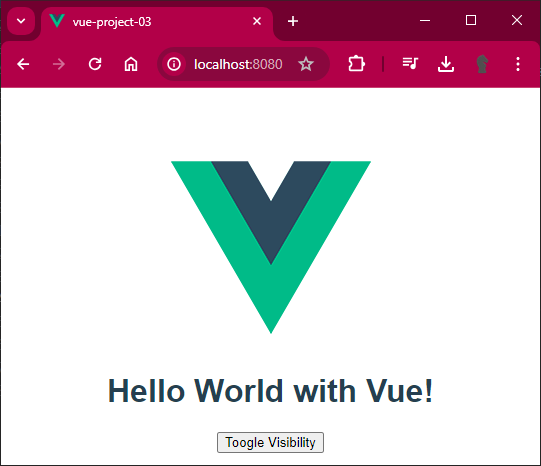
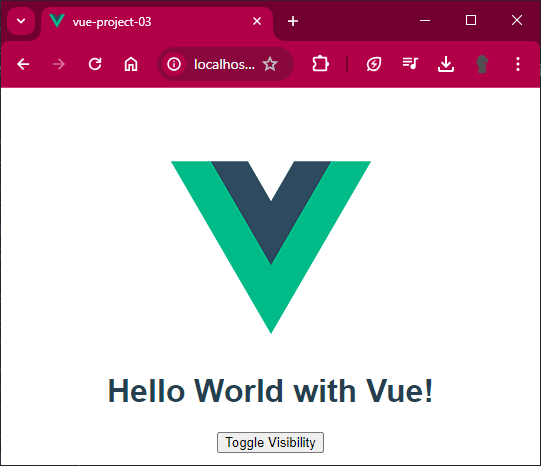
vue.js

Changed region(s): [[0.4436, 0.0901, 0.7098, 0.1803]]

diff --git a/vue-project-03/src/components/MyComponent.vue b/vue-project-03/src/components/MyComponent.vue
@@ -1,7 +1,7 @@
 <template>
 	<div id="my-component">
 		<h1 v-if="isVisible">{{ message }}</h1>
-        <button v-on:click="event => isVisible = !isVisible">Toogle Visibility</button>
+        <button v-on:click="toggleVisibility">Toggle Visibility</button>
 	</div>
 </template>
 
@@ -13,6 +13,11 @@ export default{
 			message: 'Hello World with Vue!',
             isVisible: true
 		}
-	}
+	},
+    methods:{
+        toggleVisibility(){
+            this.isVisible = !this.isVisible;
+        }
+    }
 }
 </script>

diff --git a/README.md b/README.md
@@ -332,6 +332,41 @@ export default{
 
 ![vue-project-03_03](/images/vue-project-03_03.png)
 
+### Métodos
+- Son funciones que puedes definir dentro de tu componente y utilizar en tu plantilla
+
+> src/componentes/MyComponent.vue
+
+```js
+<template>
+	<div id="my-component">
+		<h1 v-if="isVisible">{{ message }}</h1>
+        <button v-on:click="toggleVisibility">Toggle Visibility</button>
+	</div>
+</template>
+
+<script>
+export default{
+	name: 'MyComponent',
+	data(){
+		return{
+			message: 'Hello World with Vue!',
+            isVisible: true
+		}
+	},
+    methods:{
+        toggleVisibility(){
+            this.isVisible = !this.isVisible;
+        }
+    }
+}
+</script>
+```
+
+![vue-project-03_03](/images/vue-project-03_03.png)
+
+
+
 ## Actividades
 1. Registrese en CodePen con su cuenta google institucional o su cuenta GitHub asociada a su cuenta institucional y realice lo ejercicios del tutorial de Vue.js en https://vuejs.org/tutorial/. (El editor Vue.js en CodePen es https://codepen.io/pen/editor/vue)
 Utilice el estandar **vue.js-01, vue.js-02, etc.**
